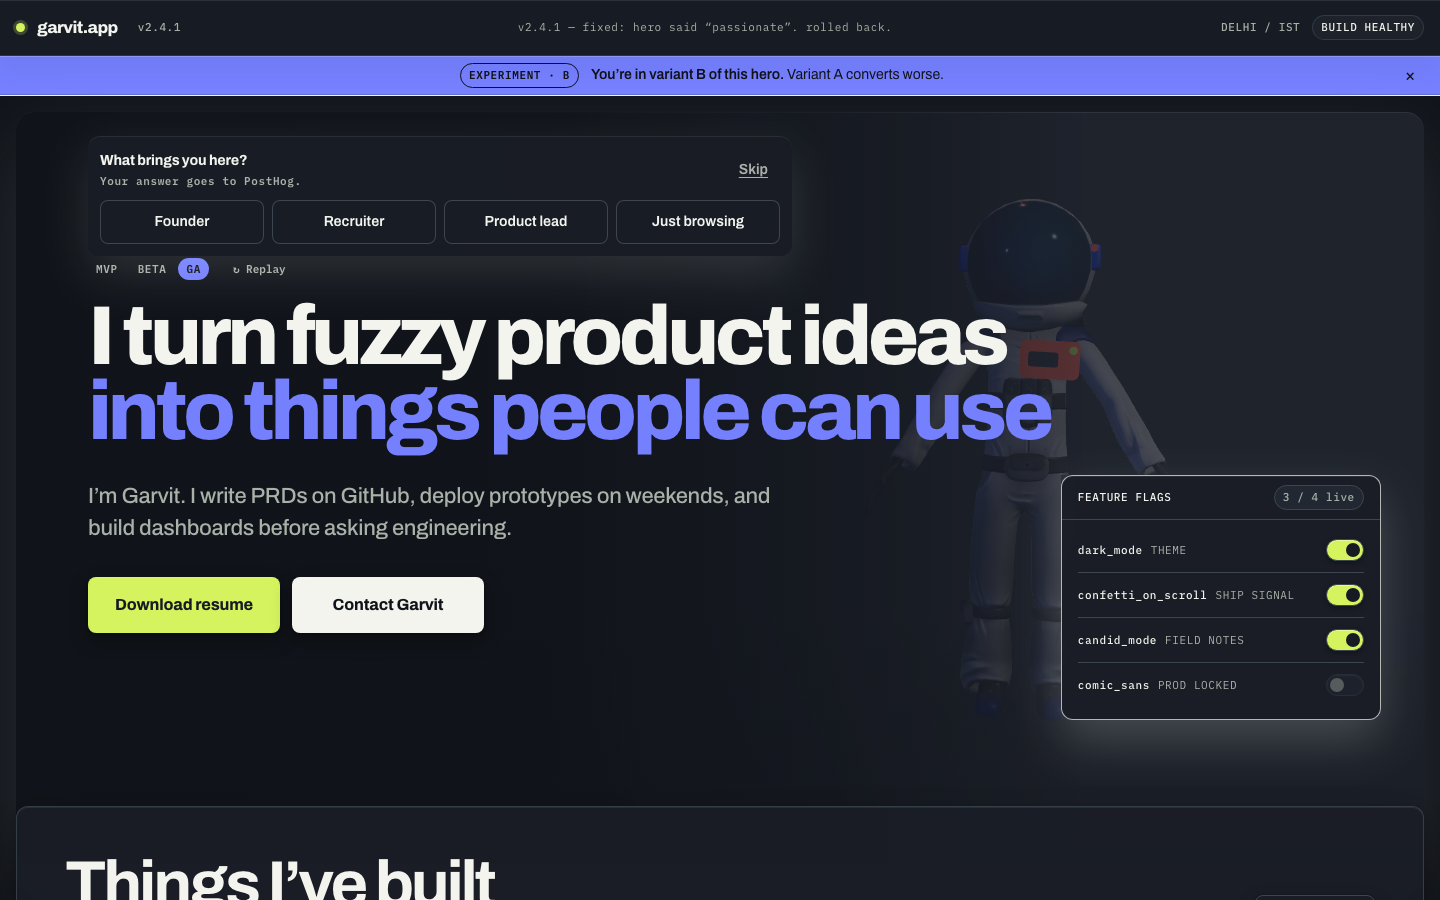
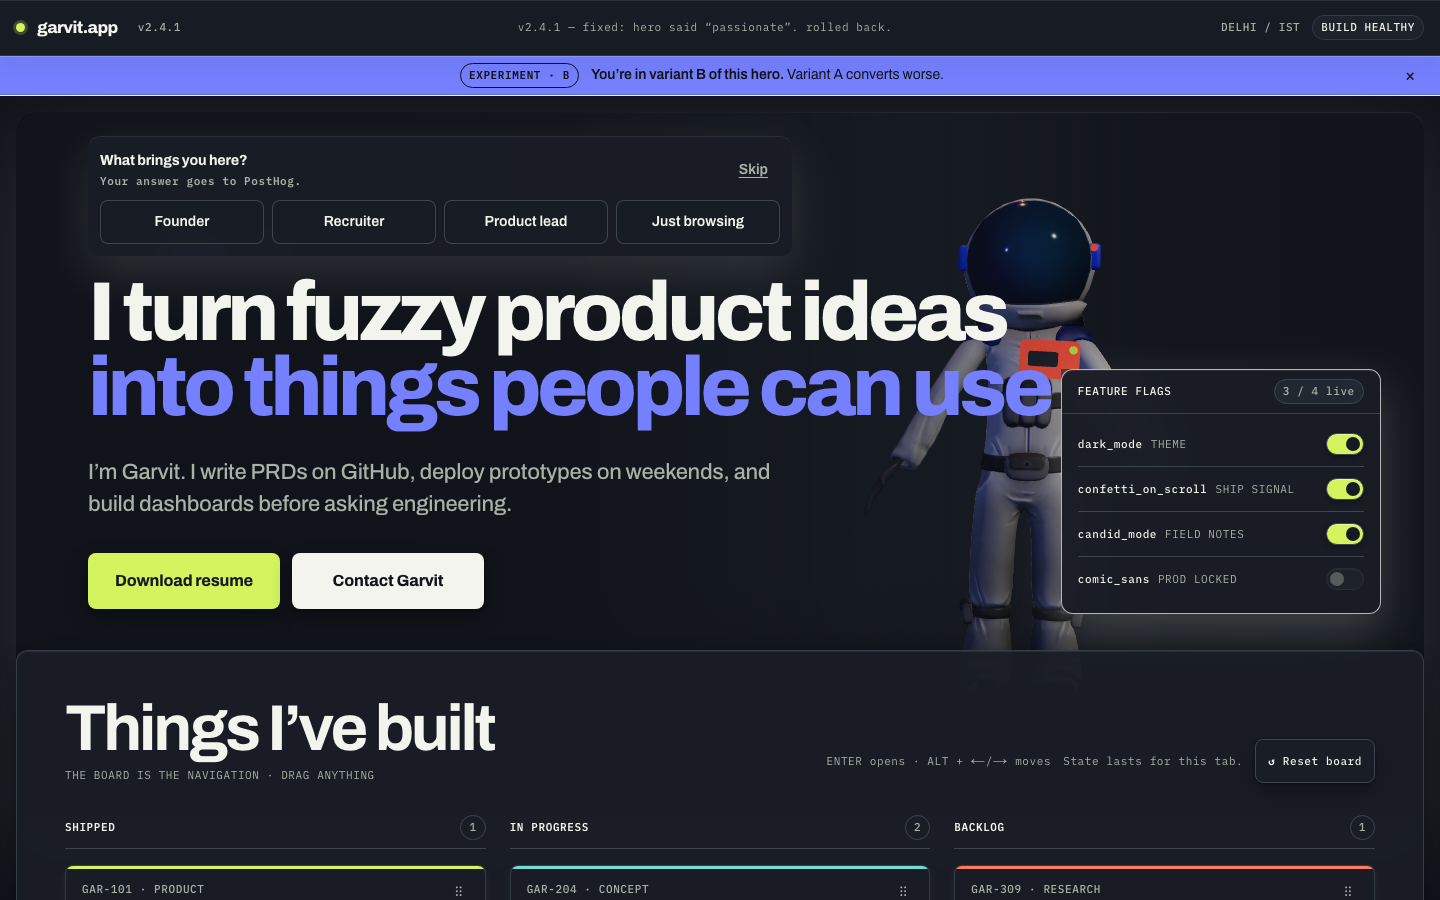
fix: gate D1 visual corrections (contrast, teaser, dock peek)
Design-lead-ordered corrections after the first D1 judgment, all at the
CSS layer (no world material/lighting/scene change):

1. Mascot contrast: hero panel wash is now a horizontal gradient that
   falls to near-clear over the guide zone (was a uniform 76% panel mix
   veiling the render); horizontal scrim stops pulled off the torso and
   the bottom scrim strengthened so the guide grounds out cleanly at the
   deeper board edge.
2. Desktop board teaser at 1440x900: hero max 47rem -> 44rem, board
   overlap -4vw -> -11.5vw, dock raised - heading fully in frame, first
   real ticket row tops enter the fold (35px), 36px dock/board clearance.
3. Mobile dock peek at 390x844: mobile hero shortened so 43px of the
   dock header peeks at the fold; both CTAs stay fully visible.

Canonical gate-d captures overwritten from the production build,
capture-facts regenerated, harness committed as
scripts/capture-homepage-gate-d.mjs, correction section appended to the
D1 report. Full unit suite, build, budgets, and chromium e2e
(home/no-js/a11y/journey/world + regression sweep) pass.

Claude-Session: https://claude.ai/code/session_01A24gXsRnQhoU98ZW548uVP

diff --git a/src/components/hero/Hero.module.css b/src/components/hero/Hero.module.css
@@ -1,9 +1,18 @@
 .hero {
   position: relative;
-  min-height: clamp(38rem, calc(100dvh - 8rem), 47rem);
+  min-height: clamp(38rem, calc(100dvh - 8rem), 44rem);
   overflow: hidden;
   border-radius: var(--radius-dialog);
-  background: color-mix(in srgb, var(--color-panel-2) 76%, transparent);
+  /* Panel wash fades over the guide zone (right ~third) so the mascot
+     renders at near-full contrast; copy zone keeps its opaque backing. */
+  background: linear-gradient(
+    90deg,
+    color-mix(in srgb, var(--color-panel-2) 82%, transparent) 0%,
+    color-mix(in srgb, var(--color-panel-2) 76%, transparent) 50%,
+    color-mix(in srgb, var(--color-panel-2) 34%, transparent) 66%,
+    color-mix(in srgb, var(--color-panel-2) 12%, transparent) 82%,
+    color-mix(in srgb, var(--color-panel-2) 10%, transparent) 100%
+  );
   box-shadow:
     0 28px 80px color-mix(in srgb, var(--color-ink) 11%, transparent),
     inset 0 1px 0 var(--material-highlight);
@@ -20,12 +29,13 @@
       90deg,
       color-mix(in srgb, var(--color-canvas) 98%, transparent) 0%,
       color-mix(in srgb, var(--color-canvas) 94%, transparent) 38%,
-      color-mix(in srgb, var(--color-canvas) 58%, transparent) 58%,
-      transparent 76%
+      color-mix(in srgb, var(--color-canvas) 58%, transparent) 56%,
+      transparent 68%
     ),
     linear-gradient(
       0deg,
-      color-mix(in srgb, var(--color-canvas) 34%, transparent),
+      color-mix(in srgb, var(--color-canvas) 88%, transparent) 0%,
+      color-mix(in srgb, var(--color-canvas) 52%, transparent) 16%,
       transparent 34%
     );
 }
@@ -110,7 +120,9 @@
 
 @media (max-width: 619.98px) {
   .hero {
-    min-height: calc(100dvh - 5.75rem);
+    /* Short enough that the flag dock's header peeks into the first fold
+       (~40-48px) as a continuation cue; both CTAs stay fully visible. */
+    min-height: calc(100dvh - 10.25rem);
     border-radius: 0 0 var(--radius-dialog) var(--radius-dialog);
   }
 

diff --git a/src/app/page.module.css b/src/app/page.module.css
@@ -21,7 +21,9 @@
 }
 
 .boardAnchor {
-  margin-top: clamp(-4.5rem, -4vw, -3rem);
+  /* Deep overlap so the board heading and the top of the first ticket
+     row enter the 1440x900 first fold as a teaser. */
+  margin-top: clamp(-11rem, -11.5vw, -3rem);
 }
 
 .journeyAnchor {
@@ -31,7 +33,7 @@
 .dock {
   position: absolute;
   right: clamp(1.25rem, 3vw, 3rem);
-  bottom: clamp(7.5rem, 10vw, 10rem);
+  bottom: clamp(9rem, 14vw, 13rem);
   z-index: 5;
   width: min(20rem, 27vw);
   min-width: 18rem;
@@ -56,7 +58,7 @@
 @media (max-width: 879.98px) {
   .dock {
     right: var(--space-4);
-    bottom: 7rem;
+    bottom: 8.5rem;
   }
 }
 

diff --git a/docs/qa/immersive/gate-d/claude-d1-report.md b/docs/qa/immersive/gate-d/claude-d1-report.md
@@ -104,3 +104,106 @@ engineering.
    deviation); the public production build still 404s that route.
 3. No other deviation: no dependency changes, no analytics event names
    added, no copy changes, no CSS re-tuning of codex's draft.
+
+## Gate D1 correction round (visual acceptance)
+
+Date: 2026-08-17 · Base: `e085623` · Corrections ordered by the design lead
+after judging the first D1 captures (engineering pass, design fail: Apple
+34/40, Taste 20/25 — asset/material 3/5). Three blocking items, all fixed at
+the CSS layer. **No `src/features/world/` file was touched** — no material,
+lighting, or scene-motion change; the render itself was always fine, it was
+being veiled by the hero panel.
+
+### Correction 1 — mascot contrast (worst in dark mode)
+
+Root cause: the hero panel painted a uniform
+`color-mix(in srgb, var(--color-panel-2) 76%, transparent)` wash across its
+full width — including the guide zone — on top of the `::after` scrims. In
+dark mode that put a 76% near-black film over the white suit (watermark); in
+light mode it flattened all suit shading.
+
+Changes (`src/components/hero/Hero.module.css`):
+
+- `.hero` background is now a 90° gradient: 82% panel-mix at the copy edge,
+  76% at 50%, falling to 12%/10% across 82–100% — full text backing on the
+  left, near-clear glass over the guide.
+- `.hero::after` horizontal scrim's transparent stop pulled in from 76% to
+  68% so it no longer bleeds over the guide's torso.
+- `.hero::after` bottom scrim *strengthened* (88% → 52% at 16% → transparent
+  at 34%) so the guide's feet ground out into canvas before the board panel
+  (94% opaque `--material-panel`) composites over them — without this, the
+  deeper board overlap (correction 2) left ghost legs visible through the
+  board surface.
+
+Result at 1440×900 (verified at full size and 360px thumbnail): LIGHT —
+helmet, dark visor, shoulders, both arms, orange pager, and full body
+silhouette read clearly. DARK — visor boundary and torso separation (chest
+straps/hardware against the lit suit) visible; the headline remains the
+dominant mass, guide reads as a supporting character. Same result at
+390×844 in both themes.
+
+### Correction 2 — desktop board teaser at 1440×900
+
+Changes:
+
+- `.hero` max height 47rem → 44rem (`Hero.module.css`).
+- `.boardAnchor` overlap deepened: `clamp(-4.5rem, -4vw, -3rem)` →
+  `clamp(-11rem, -11.5vw, -3rem)` (`page.module.css`).
+- `.dock` raised: `bottom: clamp(7.5rem, 10vw, 10rem)` →
+  `clamp(9rem, 14vw, 13rem)`; tablet override (≤880px) 7rem → 8.5rem so the
+  2vw+ dock/board gap holds across the 620–1440 range.
+
+Measured at 1440×900 (production build, machine-read rects): board heading
+fully in frame (y699–760), first real ticket row tops visibly entering
+(GAR-101 / GAR-204 / GAR-309 rows, top y865 → 35px in frame — real board,
+no cloned teaser), dock bottom y614 vs board top y650 = **36px optical
+clearance** (≥24 required), both CTAs fully visible (bottom y609).
+
+### Correction 3 — mobile dock peek at 390×844
+
+Change: mobile `.hero` min-height `calc(100dvh - 5.75rem)` →
+`calc(100dvh - 10.25rem)` (`Hero.module.css`). The dock stays in-flow below
+the hero (not forced above the fold).
+
+Measured at 390×844: dock top y801 → **43px of the dock header** ("FEATURE
+FLAGS · 3 / 4 live") visible at the bottom edge (32–56px window), both CTAs
+fully visible (bottoms y633/y697).
+
+### Iterations
+
+Three visual iterations against a dev server with Playwright screenshots +
+machine-read geometry per pass:
+
+1. Gradient unveil + height/overlap/dock rebalance — geometry landed, but a
+   trial 18.5rem dock width wrapped the `confetti_on_scroll` row, and the
+   deeper overlap exposed ghost legs through the translucent board panel.
+2. Dock width restored to 20rem; bottom scrim strengthened to ground the
+   guide at the board edge — both themes clean.
+3. Overlap eased to -11.5vw and tablet dock offset raised to keep ≥24px
+   dock/board clearance across mid widths (final: 36px at 1440×900).
+
+### Gate results (fresh, after final iteration)
+
+| Gate | Result |
+|---|---|
+| `pnpm typecheck` / `pnpm lint` / `pnpm test` (43 files, 163 tests) | PASS |
+| `pnpm build` (webpack, `NEXT_DIST_DIR=.next-e2e`, `NEXT_PUBLIC_WORLD_PROTOTYPE=1`) | PASS |
+| `pnpm check:budgets` | PASS — homepage initial JS 157.2KB gzip (≤170KB); all other budgets unchanged |
+| chromium e2e `home` + `no-js` + `a11y` + `journey` + `world` | PASS — 37/37 |
+| chromium regression sweep (`keyboard`, `responsive`, `reduced-motion`, `network`, `case-routes`, `phone-reveal`) | PASS — 35 passed, 1 intentional engine skip |
+
+Harness note: an initial e2e run showed 5 spurious failures because the
+previous session's `pnpm start` was still holding port 3111 and serving a
+stale copy of `.next-e2e` that had been rebuilt underneath it. Verified by
+building HEAD into a separate dist dir (all green), then killed the stale
+server and re-ran — all green. No test was changed.
+
+### Captures
+
+The four canonical shots were re-captured from the production build and
+overwrite the originals in place (`docs/qa/immersive/gate-d/home-{1440x900,390x844}-{light,dark}.png`),
+with `capture-facts.json` regenerated on the same schema (1 world
+scene-ready, 1 main, 1 h1, 2 primary CTAs, DELHI / IST once on desktop,
+chrome-hidden at 390px). The capture harness is now committed as
+`scripts/capture-homepage-gate-d.mjs` (same wait conditions and PostHog
+blocking as the gate-d1 script).
